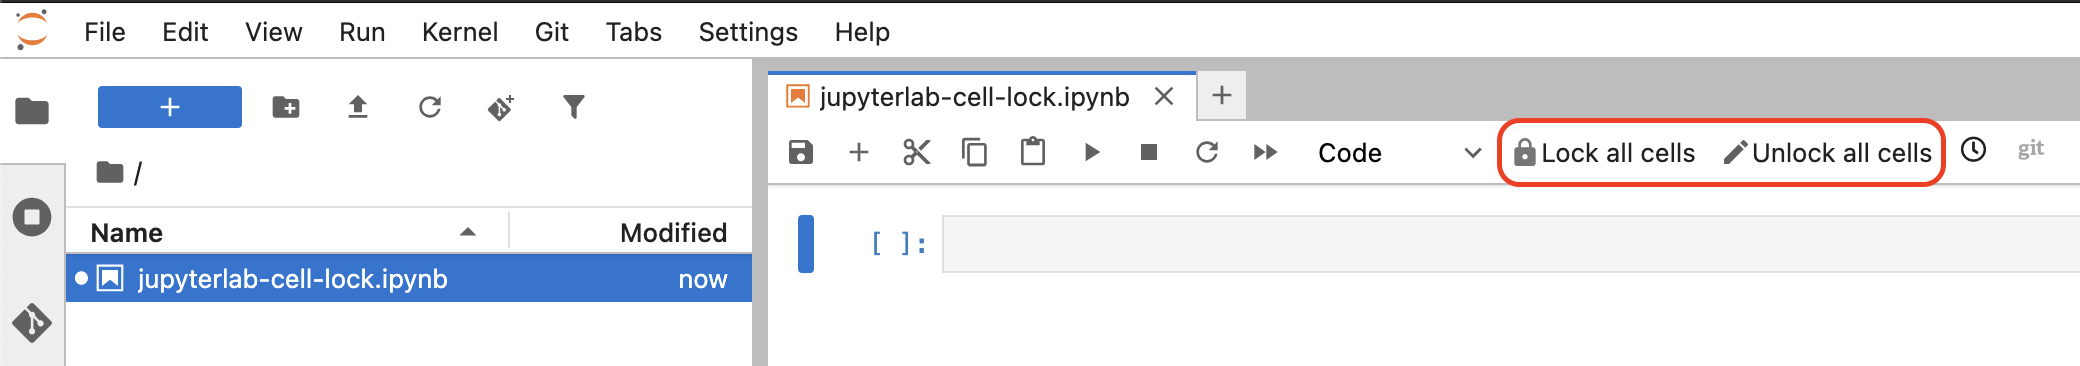
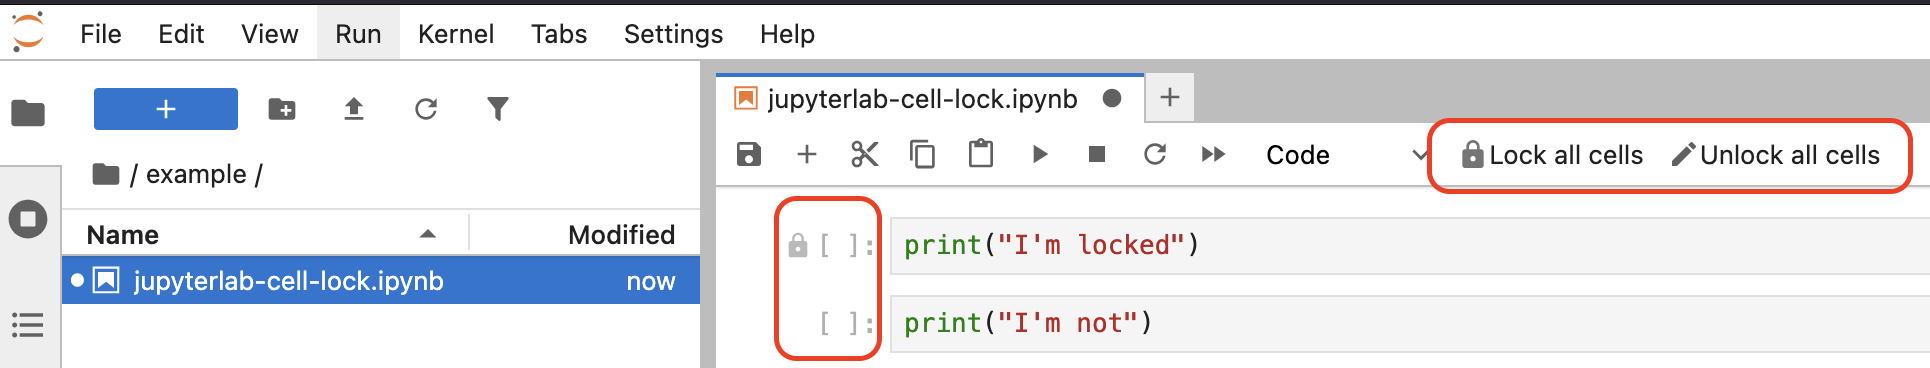
Update docs

diff --git a/README.md b/README.md
@@ -1,10 +1,10 @@
 [![build](https://github.com/jrdnbradford/jupyterlab-cell-lock/actions/workflows/build.yaml/badge.svg)](https://github.com/jrdnbradford/jupyterlab-cell-lock/actions/workflows/build.yaml)
 [![PyPI version](https://img.shields.io/pypi/v/jupyterlab-cell-lock.svg)](https://pypi.org/project/jupyterlab-cell-lock/)
-![PyPI - Downloads](https://img.shields.io/pypi/dm/jupyterlab-cell-lock?label=PyPI%20downloads)
+![PyPI downloads](https://img.shields.io/pypi/dm/jupyterlab-cell-lock?label=PyPI%20downloads)
 
 # 🔒 jupyterlab-cell-lock
 
-![JupyterLab UI showing "Lock all cells" and "Unlock all cells" buttons in the toolbar with lock and edit icons, respectively](https://raw.githubusercontent.com/jrdnbradford/jupyterlab-cell-lock/main/docs/img/ui.png)
+![JupyterLab UI showing "Lock all cells" and "Unlock all cells" buttons in the toolbar with cell examples](https://raw.githubusercontent.com/jrdnbradford/jupyterlab-cell-lock/main/docs/img/ui.png)
 
 A JupyterLab extension for easily locking cells, making them read-only and undeletable.
 
@@ -34,7 +34,7 @@ Confirm installation:
 jupyter labextension list
 ```
 
-# 💡 Use Cases
+## 💡 Use Cases
 
 - **Educators Distributing Assignments and Notes**: Provide notebooks with text, problem descriptions, and code, helping prevent students from accidentally editing assignments/lecture notes while still allowing them to add their own notes/answers in new or designated cells.
 
